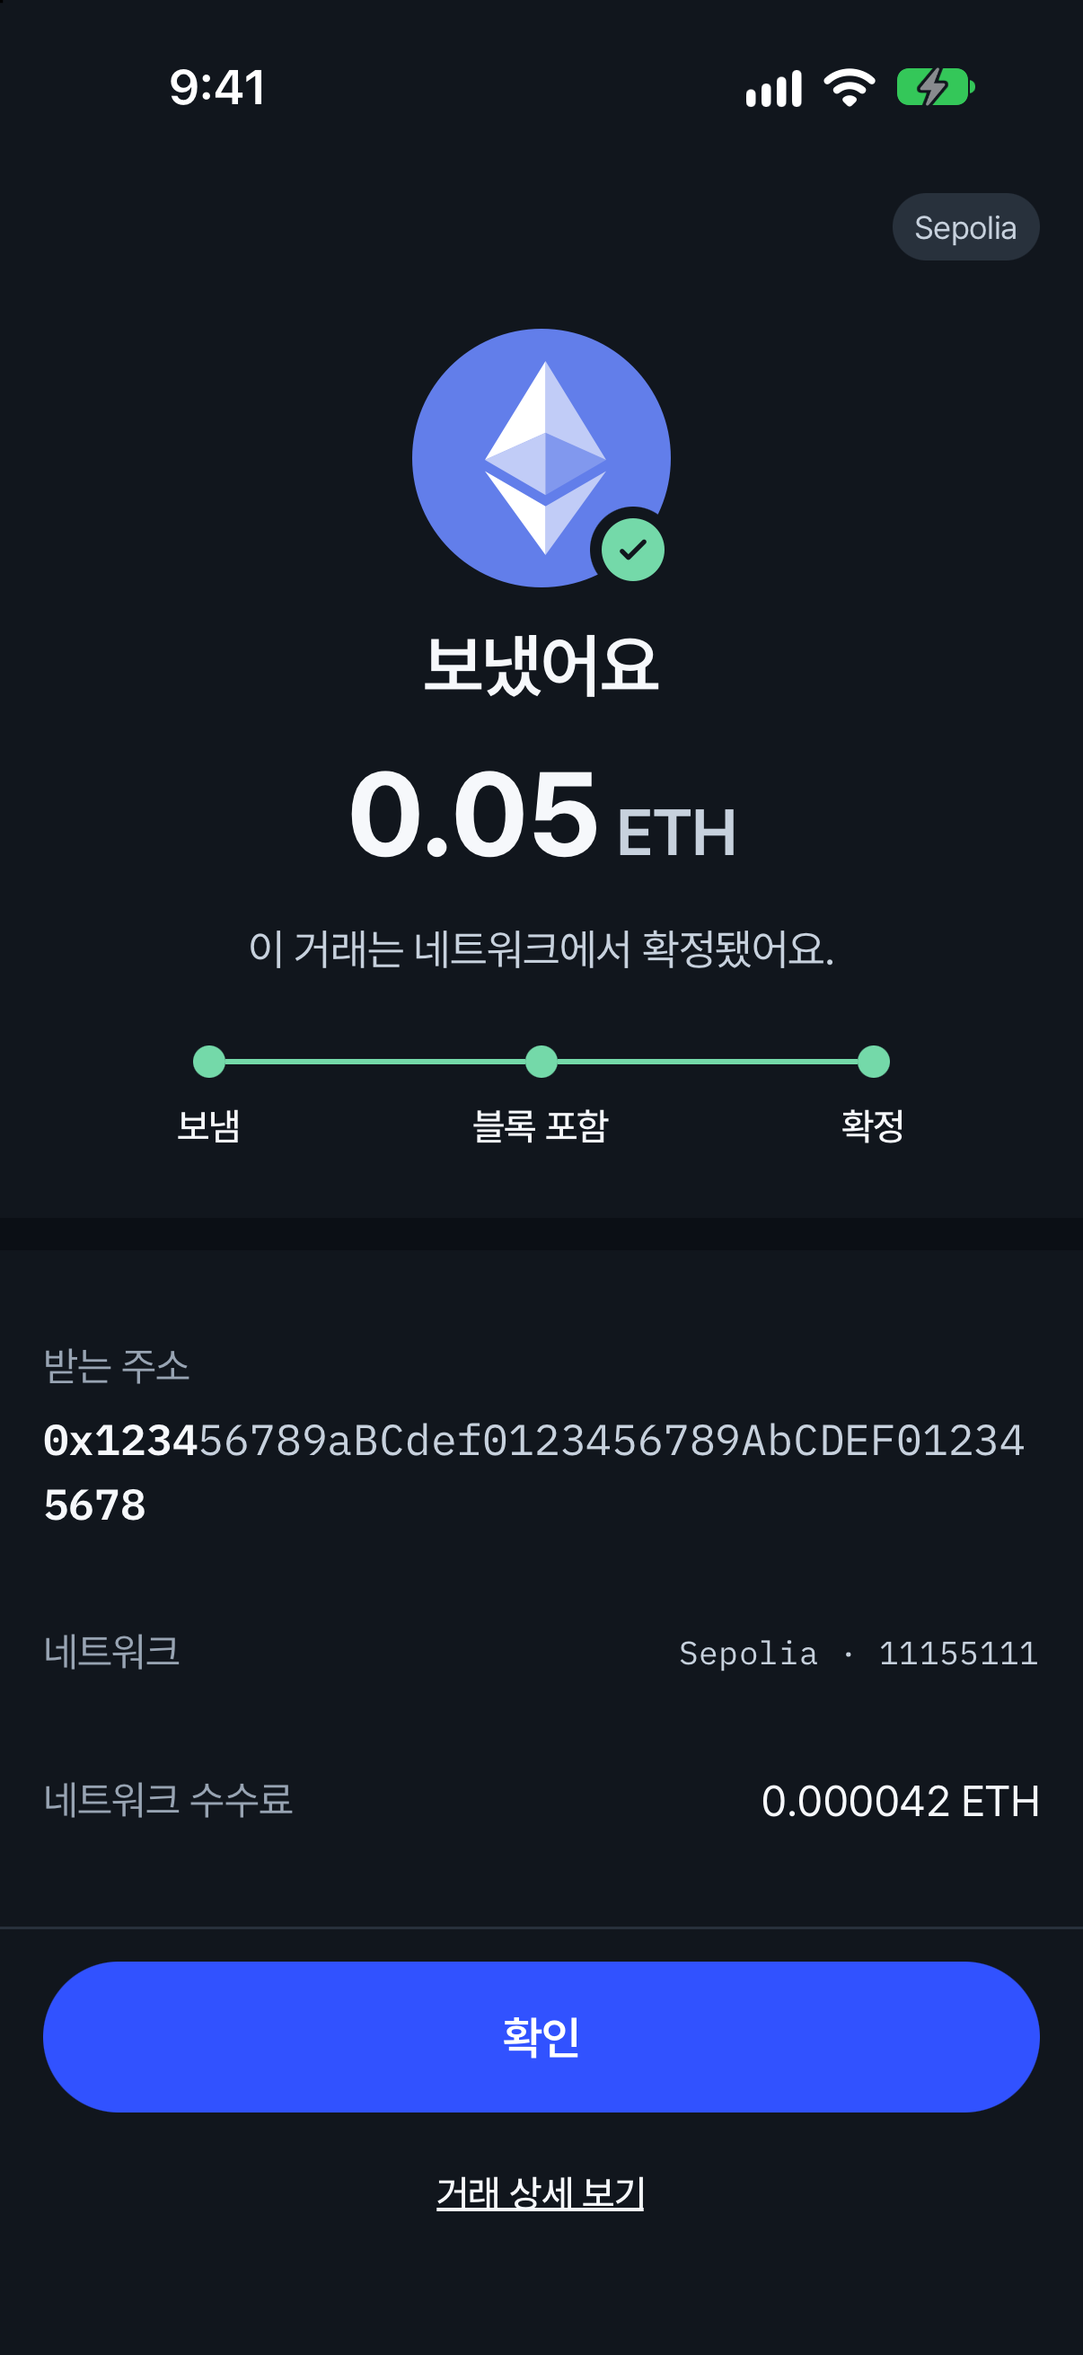
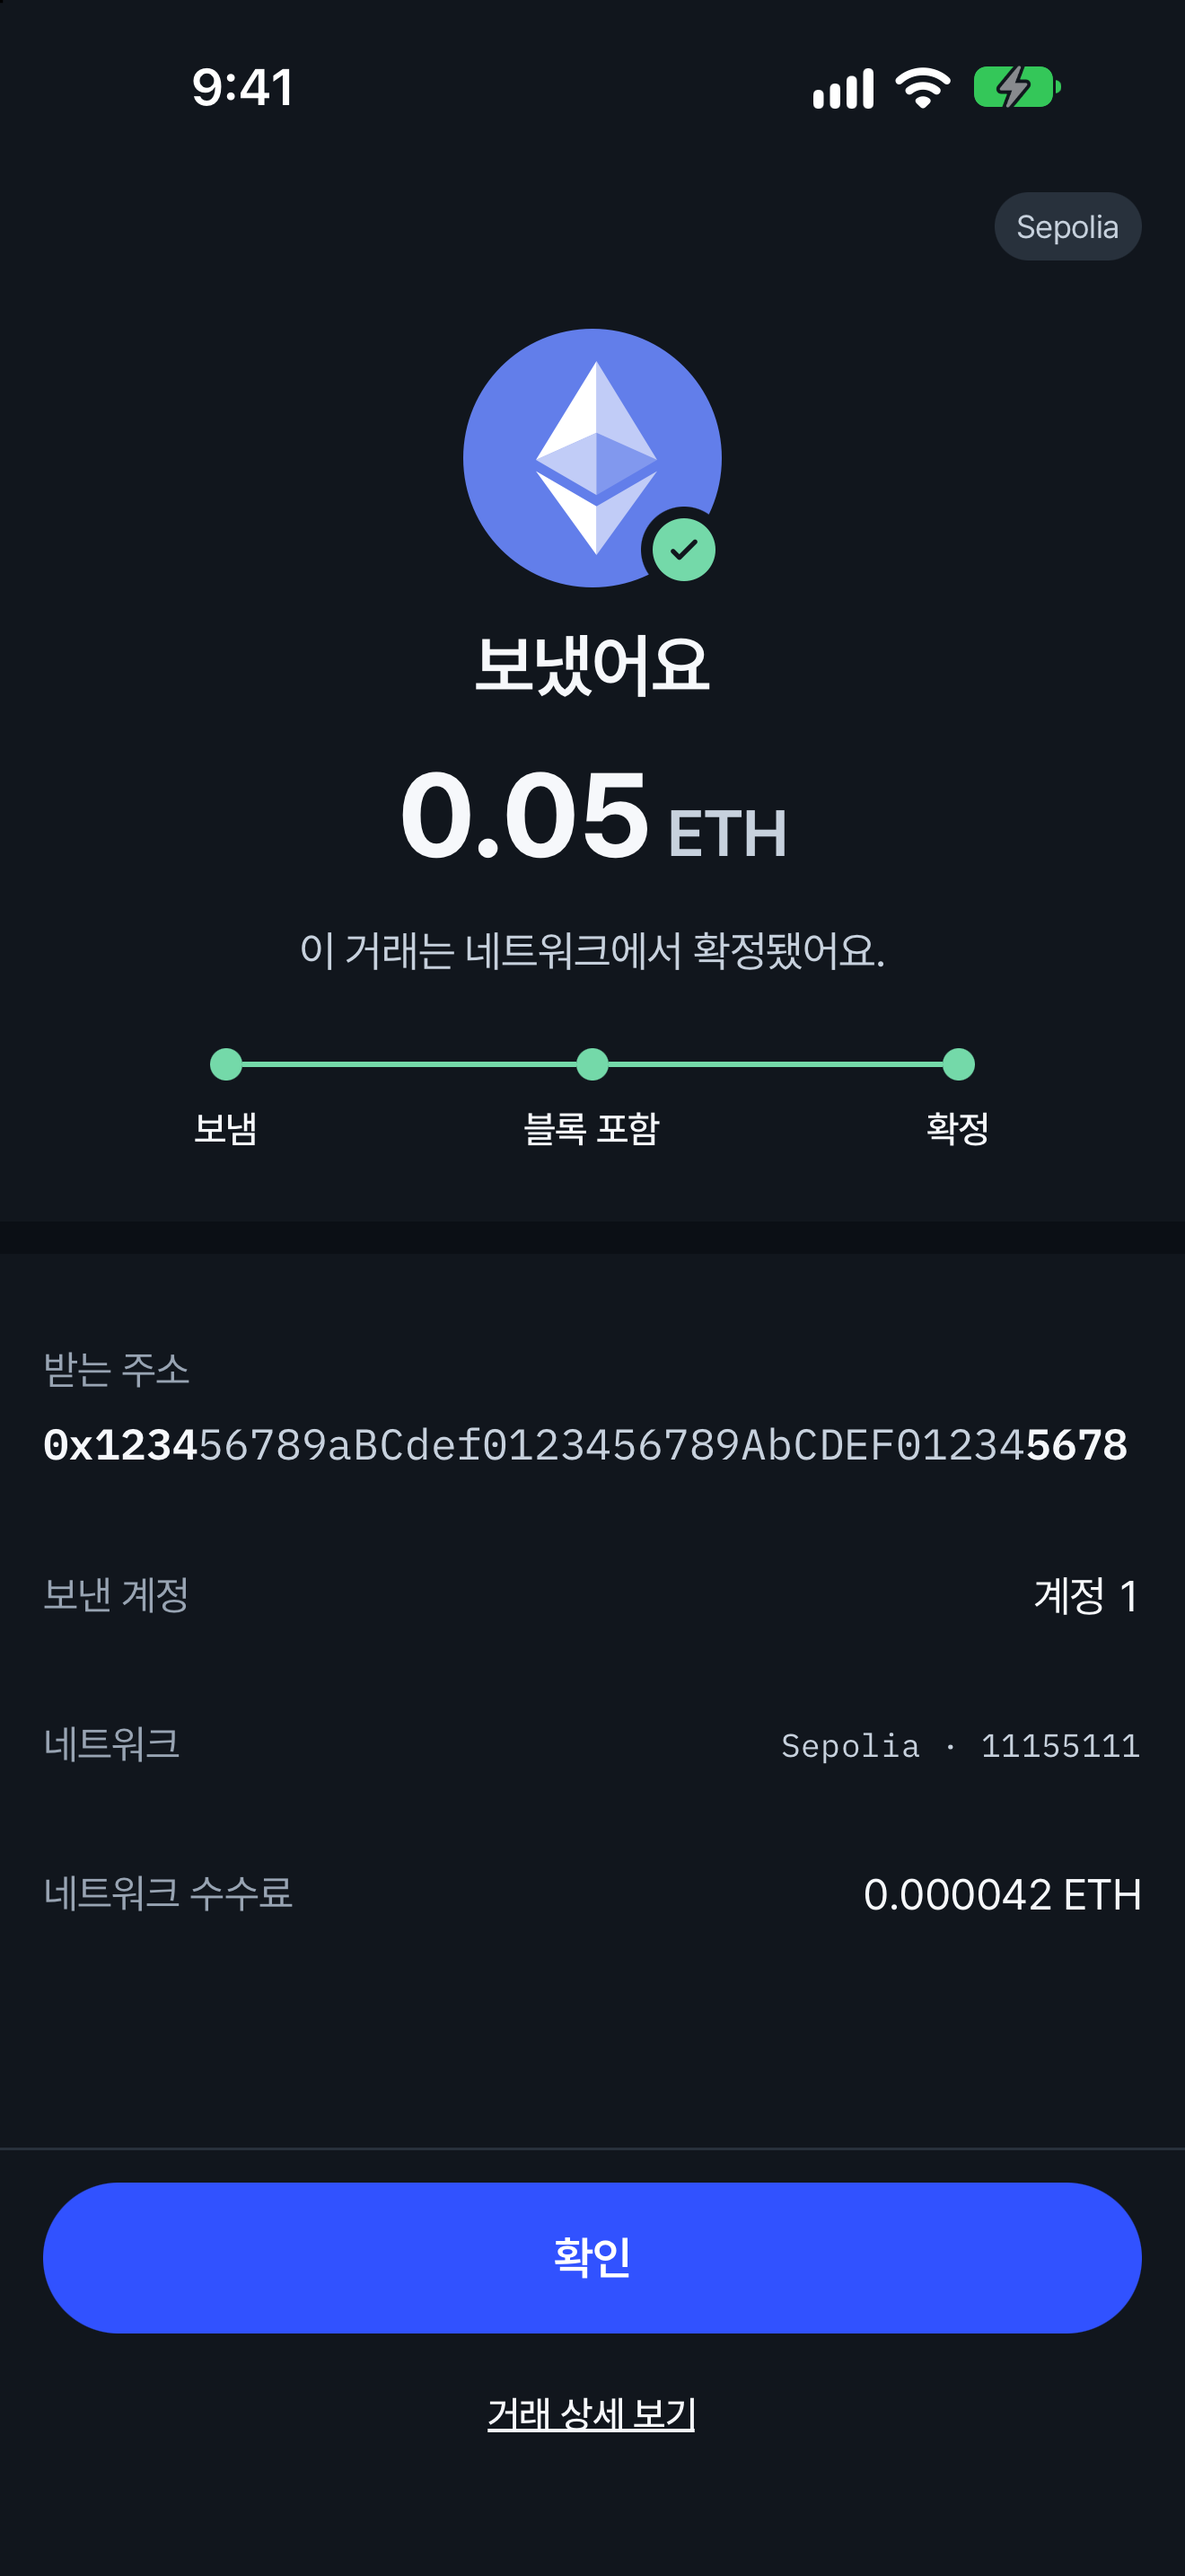
feat(mobile): save the sending account in the send record; S23 and S41 read it (#32)

diff --git a/apps/mobile/src/pages/activity/detail.tsx b/apps/mobile/src/pages/activity/detail.tsx
@@ -3,7 +3,7 @@ import { Redirect, useLocalSearchParams, useRouter } from 'expo-router'
 import { useState } from 'react'
 import { Linking, Pressable, View } from 'react-native'
 import { useTranslation } from 'react-i18next'
-import { account, networkFact } from '@/entities/account'
+import { networkFact } from '@/entities/account'
 import { demoTx } from '@/entities/transaction'
 import type { TxState } from '@/features/send'
 import { clearTestTx, isFinal, isPolled, resultCopy, txView, useTrackedTx, writePendingTx } from '@/features/send'
@@ -37,7 +37,7 @@ const hhmm = (at: number) => new Date(at).toTimeString().slice(0, 5)
 /**
  * B-S41 거래 상세 for the send in the kv. State comes from the chain (ARCHITECTURE.md#invariants): receipt + `safe` block = Confirmed or Failed.
  * Hero shares the S23 copy (`resultCopy`); a send the fake adapter never broadcast is a test send ("테스트 거래예요", state "예시", no fee row, 테스트 거래 지우기 with a confirm sheet).
- * Blocks: 받는 주소 / 거래 정보 (시각, 상태, 보낸 계정, 네트워크, 네트워크 수수료) / 거래 해시 + Etherscan row (real network only). 상태 다시 확인 asks the chain; a Pending or Included send is also re-checked every 15 s while focused.
+ * Blocks: 받는 주소 / 거래 정보 (시각, 상태, 보낸 계정 from the record — hidden for a record saved before #32, 네트워크, 네트워크 수수료) / 거래 해시 + Etherscan row (real network only). 상태 다시 확인 asks the chain; a Pending or Included send is also re-checked every 15 s while focused.
  * `?demo=<state>` (+ `&real=1`, `&err=1`, `&sheet=1`) is a __DEV__ capture override: a synthetic send in that state.
  */
 export function TxDetailPage() {
@@ -114,7 +114,9 @@ export function TxDetailPage() {
         <SummaryRow label={t('detail.time')} fact value={factTime(tx.createdAt)} />
         <SummaryRow label={t('result.statusLabel')} value={stateWord} />
         <SummaryRow format="address" plain fact label={t('detail.hashTitle')} value={tx.hash} />
-        <SummaryRow label={t('detail.sender')} value={account.name} />
+        {tx.accountIndex !== undefined ? (
+          <SummaryRow label={t('detail.sender')} value={t('detail.accountName', { n: tx.accountIndex + 1 })} />
+        ) : null}
         <SummaryRow label={t('result.network')} fact value={networkFact} />
         {tx.blockNumber !== undefined && !test ? (
           <SummaryRow label={t('detail.block')} fact value={String(tx.blockNumber).replace(/\B(?=(\d{3})+$)/g, ',')} />

diff --git a/apps/mobile/src/pages/send/result.tsx b/apps/mobile/src/pages/send/result.tsx
@@ -1,4 +1,4 @@
-// Figma: B-S23 Send result (Pending 423:15795, Included 423:15852, Confirmed 423:15909, Failed 423:15959 + Reason, Unknown 423:16009, Replaced 423:16059, Pending test mode)
+// Figma: B-S23 Send result (Pending 423:15795, Included 423:15852, Confirmed 423:15909, Failed 423:15959 + Reason, Unknown 423:16009, Replaced 423:16059, Pending test mode; 보낸 계정 row 723:5774)
 import { useFocusEffect, useLocalSearchParams, useRouter } from 'expo-router'
 import { useCallback, useEffect, useRef } from 'react'
 import { Redirect } from 'expo-router'
@@ -29,6 +29,7 @@ import { NetworkChips } from '@/widgets/network-chips'
  * B-S23 보내기 결과: a centered end moment (asset logo + status badge, headline, Figure amount, sentence), the 보냄 -> 블록 포함 -> 확정 progress for Pending / Included / Confirmed only,
  * then a band and flat detail rows. Fee label: "예상 네트워크 수수료" until the network has it, "네트워크 수수료" once included. Replaced has no fee row.
  * A send the fake adapter never put on the network is a test send: "테스트 거래예요", no progress, no warning line, no fee (the chip says it too).
+ * 보낸 계정 comes from the record (`accountIndex`, saved at send time); a record saved before #32 has none and the row is hidden.
  * A failure reason line shows only when the record carries a confirmed reason (`failReason`). Success and failure give a haptic once.
  * Reads the kv pending record and re-checks it every 15 s while focused. `?demo=<state>` (+ `&reason=gas`; `&real=1` shows the real-chain variant) is a __DEV__ capture override: a synthetic send in that state.
  */
@@ -134,6 +135,9 @@ export function SendResultPage() {
       <Block>
         {!test && copy.warn ? <StatusNotice tone="warning" title={t(copy.warn)} /> : null}
         <SummaryRow format="address" label={t('result.recipient')} value={tx.to} />
+        {tx.accountIndex !== undefined ? (
+          <SummaryRow label={t('detail.sender')} value={t('detail.accountName', { n: tx.accountIndex + 1 })} />
+        ) : null}
         <SummaryRow label={t('result.network')} fact value={networkFact} />
         {showFee ? <SummaryRow label={t(feeLabel)} value={`${tx.fee ?? '—'} ETH`} /> : null}
       </Block>

diff --git a/apps/mobile/src/shared/storage/kv.ts b/apps/mobile/src/shared/storage/kv.ts
@@ -89,12 +89,16 @@ export type PendingTx = {
   failReason?: 'outOfGas'
   /** Block of the receipt, once the network has one (S41 "블록" Fact row). */
   blockNumber?: number
+  /** Sending account address and its derivation index, saved at send time (S23/S41 "보낸 계정"). Both or neither: records saved before #32 have none, and the row is hidden. */
+  from?: string
+  accountIndex?: number
   state: 'Pending' | 'Unknown' | 'Included' | 'Confirmed' | 'Failed' | 'Replaced'
 }
 
 const STATES = new Set(['Pending', 'Unknown', 'Included', 'Confirmed', 'Failed', 'Replaced'])
 const isStr = (v: unknown): v is string => typeof v === 'string' && v.length > 0
 const isNum = (v: unknown): v is number => typeof v === 'number' && Number.isFinite(v)
+const isAddr = (v: unknown): v is string => typeof v === 'string' && /^0x[0-9a-fA-F]{40}$/.test(v)
 
 export function parsePendingTx(raw: string): PendingTx | null {
   let v: unknown
@@ -128,6 +132,9 @@ export function parsePendingTx(raw: string): PendingTx | null {
     ...(isStr(o.fee) ? { fee: o.fee } : {}),
     ...(isNum(o.blockNumber) ? { blockNumber: o.blockNumber } : {}),
     ...(o.failReason === 'outOfGas' ? { failReason: 'outOfGas' as const } : {}),
+    ...(isAddr(o.from) && Number.isInteger(o.accountIndex) && (o.accountIndex as number) >= 0
+      ? { from: o.from, accountIndex: o.accountIndex as number }
+      : {}),
   }
 }
 

diff --git a/apps/mobile/test/storage.test.ts b/apps/mobile/test/storage.test.ts
@@ -194,6 +194,30 @@ describe('kv key + store', () => {
     expect(kv.parsePendingTx(JSON.stringify({ hash: 'x' }))).toBeNull()
   })
 
+  it('pending tx keeps the sending account; a record saved before it (or a bad one) has none', async () => {
+    const kv = await import('../src/shared/storage/kv')
+    const tx = {
+      hash: '0xabc',
+      nonce: 3,
+      asset: 'ETH',
+      to: '0xdef',
+      amount: '0.1',
+      createdAt: 1,
+      lastCheckedAt: 2,
+      state: 'Pending' as const,
+    }
+    const from = '0x1a2b3C4d5e6F7A8B9c0D1e2f3A4B5c6d7e8F9A0B'
+    expect(kv.parsePendingTx(JSON.stringify({ ...tx, from, accountIndex: 0 }))).toEqual({
+      ...tx,
+      from,
+      accountIndex: 0,
+    })
+    expect(kv.parsePendingTx(JSON.stringify(tx))).toEqual(tx)
+    expect(kv.parsePendingTx(JSON.stringify({ ...tx, from, accountIndex: -1 }))).toEqual(tx)
+    expect(kv.parsePendingTx(JSON.stringify({ ...tx, from: 'nope', accountIndex: 0 }))).toEqual(tx)
+    expect(kv.parsePendingTx(JSON.stringify({ ...tx, accountIndex: 0 }))).toEqual(tx)
+  })
+
   it('a corrupt stored pending tx throws instead of reading as none', async () => {
     const kv = await import('../src/shared/storage/kv')
     await kv.openKv()

diff --git a/apps/mobile/src/features/send/model/runSend.ts b/apps/mobile/src/features/send/model/runSend.ts
@@ -1,4 +1,5 @@
 import { fromUnits, signAndSubmit, type Address, type ApprovedSend } from '@vaultme/wallet-core'
+import { ACCOUNT_INDEX } from '@/entities/account'
 import type { ChainPort } from '@/shared/chain'
 import type { AuthPrompt, LoadPhraseResult, PendingTx } from '@/shared/storage'
 
@@ -57,6 +58,8 @@ export async function runSend(
     createdAt: at,
     lastCheckedAt: at,
     fee: fromUnits(approved.estimatedFee, 'ETH'),
+    from,
+    accountIndex: ACCOUNT_INDEX,
     state: result.status,
   }
   try {

diff --git a/apps/mobile/src/entities/transaction/fixtures.ts b/apps/mobile/src/entities/transaction/fixtures.ts
@@ -74,5 +74,7 @@ export const demoTx = (state: PendingTx['state']): PendingTx => ({
   lastCheckedAt: Date.now(),
   fee: '0.000042',
   blockNumber: 5812044, // Figma S41 realchain example
+  from: '0x9858EfFD232B4033E47d90003D41EC34EcaEda94', // public test vector first account (entities/account fixtures)
+  accountIndex: 0,
   state,
 })

diff --git a/packages/i18n/src/ko.ts b/packages/i18n/src/ko.ts
@@ -328,6 +328,8 @@ export const ko = {
   detail: {
     title: '거래 상세',
     sender: '보낸 계정',
+    /** Sending account name from the record's derivation index (n = index + 1). */
+    accountName: '계정 {{n}}',
     recipientTitle: '받는 주소',
     infoTitle: '거래 정보',
     time: '시각',

diff --git a/apps/mobile/src/entities/account/model.ts b/apps/mobile/src/entities/account/model.ts
@@ -1,0 +1,4 @@
+import { DERIVATION_PATH } from '@vaultme/wallet-core'
+
+/** Index of the account the wallet signs with: the last segment of its one derivation path (ADR-0002). "계정 1" = index 0. */
+export const ACCOUNT_INDEX = Number(DERIVATION_PATH.split('/').at(-1))

diff --git a/apps/mobile/test/send-flow.test.ts b/apps/mobile/test/send-flow.test.ts
@@ -73,6 +73,8 @@ describe('runSend', () => {
       fee: '0.000042',
       createdAt: 1000,
       lastCheckedAt: 1000,
+      from: FROM,
+      accountIndex: 0,
     })
     expect(saved[0]!.hash).toMatch(/^0x[0-9a-f]{64}$/)
   })

diff --git a/apps/mobile/src/entities/account/index.ts b/apps/mobile/src/entities/account/index.ts
@@ -1,1 +1,2 @@
 export { account, networkFact } from './fixtures'
+export { ACCOUNT_INDEX } from './model'
